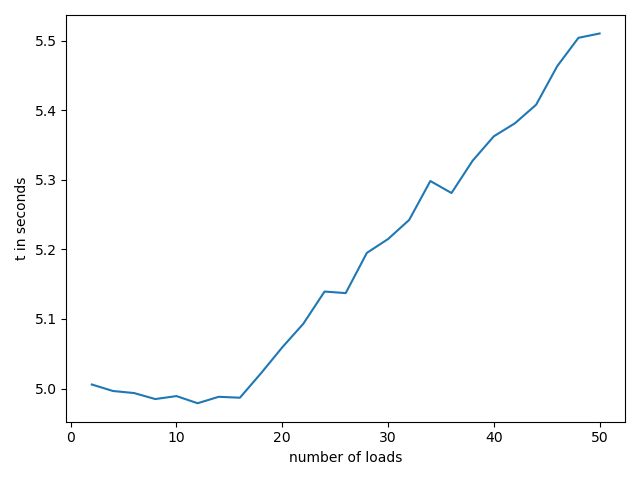
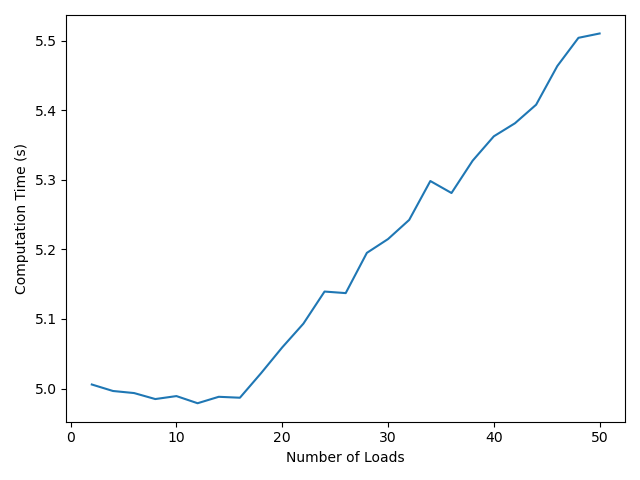
paper | adjust figure an table captions, axes

Changed region(s): [[0.0, 0.3125, 0.0625, 0.5938], [0.4375, 0.9375, 0.625, 0.9688]]

diff --git a/Paper/04_Validation/03_annealing.tex b/Paper/04_Validation/03_annealing.tex
@@ -16,7 +16,7 @@ The optimization of these problems takes no longer than $5.6$ seconds each.
 \begin{table}[ht]
   \centering
   \input{81_Tables/04_Validation/performance_annealing_p4.tex}
-  \caption{Results of annealing optimization with four power plants.}
+  \caption{Results of Annealing Optimization with $4$ Power Plants}
   \label{table:validation.annealing.performance}
 \end{table}
 
@@ -24,24 +24,26 @@ In figure \ref{figure:validation.annealing.performance} the time complexity is d
 The time needed for optimizing problems with less than $15$ time instances also seems to be constant.
 After that, the linear time complexity is clearly visible.
 
-\begin{figure}[ht]
-  \centering
-  \includegraphics[width=0.75 \textwidth]{04_Validation/performance_annealing_p4.png}
-  \caption{Time complexity of annealing optimization with four power plants.}
-  \label{figure:validation.annealing.performance}
-\end{figure}
-
 When the problem size increases, the time complexity seems to be worse than linear.
 This becomes clear in figure \ref{figure:validation.annealin.performance.extended}.
 The time taken by the hybrid solver to optimize the problem grows linearly, but at a higher rate starting from $80$ time instances.
 After this increase of slope, the slope stays the same until the problem size reaches $200$ in the time dimension.
 I did not test the optimization of problems with more than $200$ time instances on the D-Wave hardware.
 
-\begin{figure}[h!]
-  \centering
-  \includegraphics[width=0.75 \textwidth]{04_Validation/performance_annealing_p4_extended.png}
-  \caption{Time complexity of annealing optimization with four power plants and more time instances.}
-  \label{figure:validation.annealin.performance.extended}
+\begin{figure}
+  \begin{subfigure}[b]{0.5 \textwidth}
+    \centering
+    \includegraphics[width=\textwidth]{04_Validation/performance_annealing_p4.png}
+    \caption{With up to $50$ Loads}
+    \label{figure:validation.annealing.performance}
+  \end{subfigure}
+  \begin{subfigure}[b]{0.5 \textwidth}
+    \centering
+    \includegraphics[width=\textwidth]{04_Validation/performance_annealing_p4_extended.png}
+    \caption{With up to $200$ Loads}
+    \label{figure:validation.annealin.performance.extended}
+  \end{subfigure}
+  \caption{Time Complexity of Annealing Optimization with $4$ Power Plants}
 \end{figure}
 
 This approach does not produce optimal solutions for the UCP.

diff --git a/Paper/04_Validation/02_classical.tex b/Paper/04_Validation/02_classical.tex
@@ -30,7 +30,7 @@ But the data shows that it took about $311,144.9$ seconds.
 \begin{table}[ht]
   \centering
   \input{81_Tables/04_Validation/performance_classical_p4}
-  \caption{Results of classical optimization with four power plants.}
+  \caption{Results of Classical Optimization with $4$ Power Plants}
   \label{table:validation.classical.performance}
 \end{table}
 
@@ -40,6 +40,6 @@ It shows the time needed for optimization dependent on the input size --- the nu
 \begin{figure}[ht]
   \centering
   \includegraphics[width=0.75 \textwidth]{04_Validation/performance_classical_p4.png}
-  \caption{Time complexity of classical optimization with four power plants.}
+  \caption{Time Complexity of Classical Optimization with $4$ Power Plants}
   \label{figure:validation.classical.performance}
 \end{figure}

diff --git a/Paper/02_Background/03_Quantum/00_quantum.tex b/Paper/02_Background/03_Quantum/00_quantum.tex
@@ -72,7 +72,7 @@ The more important metric is the qubit connectivity, the so-called ''degree'', w
 \begin{figure}[!h]
   \centering
   \includegraphics[width=0.7 \textwidth]{02_Background/dwave_qbits_history.png}
-  \caption{Number of qubits in D-wave QPUs over the years \cite{D-Wave2018, D-Wave2020}}
+  \caption{Number of Qubits in D-wave QPUs over the Years \cite{D-Wave2018, D-Wave2020}}
   \label{figure:annealing.processors.history}
 \end{figure}
 

diff --git a/Paper/04_Validation/01_data.tex b/Paper/04_Validation/01_data.tex
@@ -33,7 +33,7 @@ It is shown in figure \ref{figure:data.demand.day}.
 \begin{figure}
   \centering
   \includegraphics[width=0.7 \textwidth]{04_Validation/data_demand_day.png}
-  \caption{Demand Data}
+  \caption{Power Demand Data}
   \label{figure:data.demand.day}
 \end{figure}
 

diff --git a/Experiments/UCP/experiment_results.py b/Experiments/UCP/experiment_results.py
@@ -69,8 +69,8 @@ class ExperimentResults(object):
 
     time_series.plot()
 
-    plt.xlabel('number of loads')
-    plt.ylabel('t in seconds')
+    plt.xlabel('Number of Loads')
+    plt.ylabel('Computation Time (s)')
 
     plt.tight_layout()
     plt.savefig(output_file_name)
